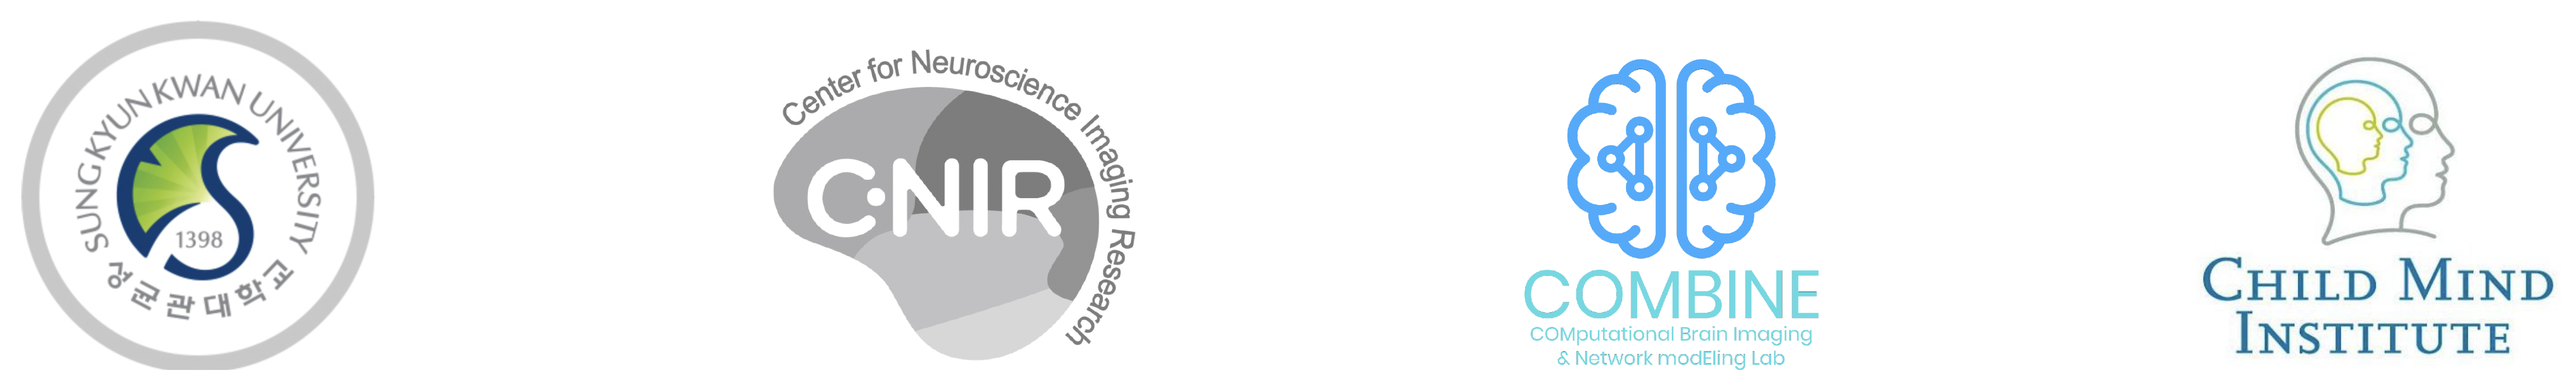
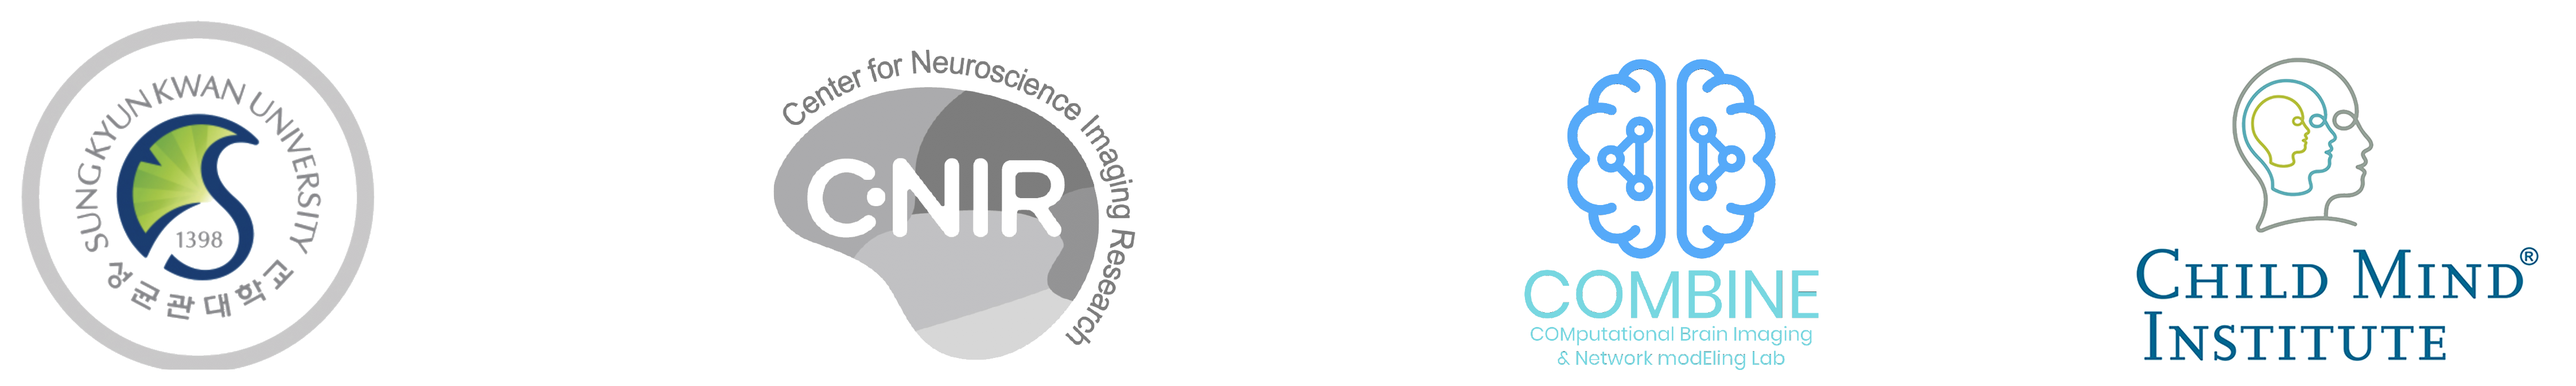
new files are updated

Changed region(s): [[0.8107, 0.1246, 0.9978, 0.7789], [0.8107, 0.8101, 0.9978, 0.9347]]

diff --git a/job/README.md b/job/README.md
@@ -8,7 +8,7 @@ hide_description: true
 ![future student](/assets/img/future_students3.jpg)
 <br/><br/>
 
-![center emblem](/assets/img/centers_emblem.jpg)
+![center emblem](/assets/img/centers_emblem.png)
 <br/>
 (<i>A Korean version will follow in the next page.</i>)<br/>
 The Computational Brain Imaging and Network Modeling (<a href="https://combinelab.net">COMBINE</a>) lab at the <a href="hhttps://www.skku.edu/eng/">Sungkyunkwan University</a> (<a href="https://www.topuniversities.com/universities/sungkyunkwan-universityskku">QS Rank</a>) in South Korea has multiple positions for graduate students and post-doctoral research fellows. The new member of the COMBINE lab will closely work with Dr. Seok-Jun Hong (<a href="https://combinelab.net/resume/">PI</a>) to develop neuroimaging-based cognitive and clinical biomarkers and also the advanced algorithms for large-scale brain network modeling in both human and non-human primates. <br/>
